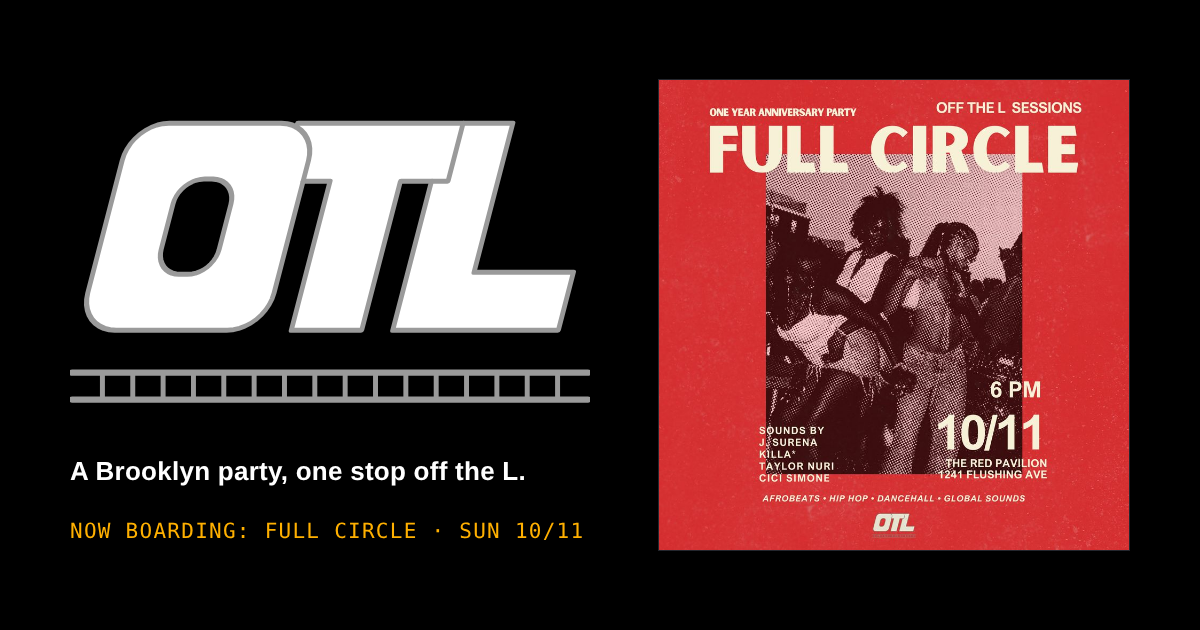
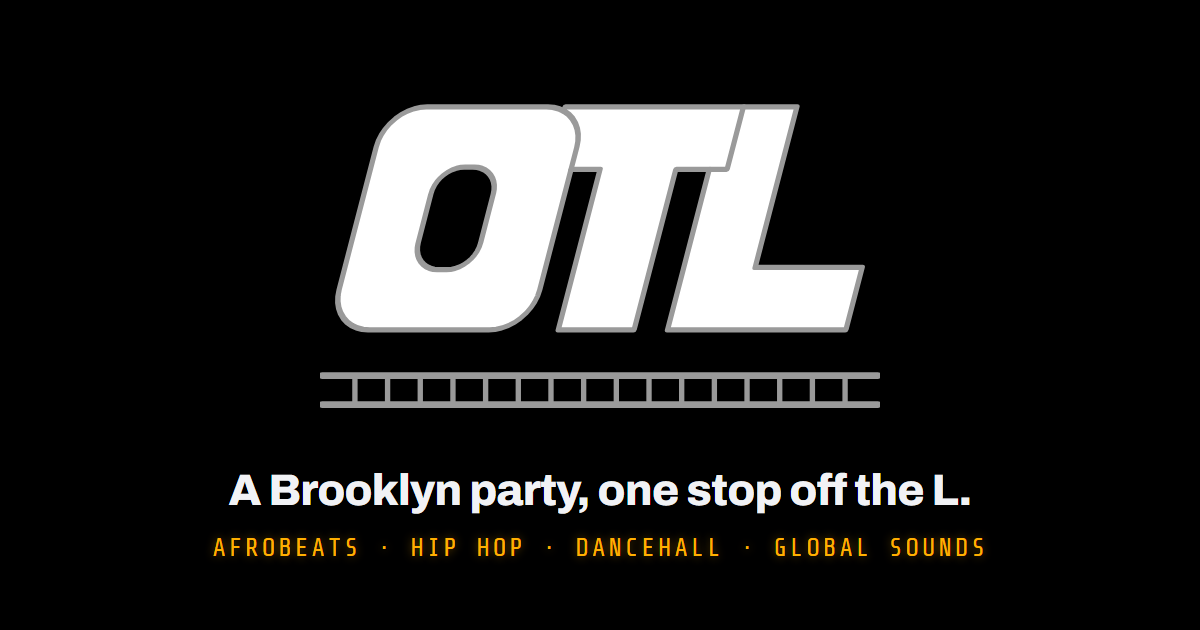
Take Full Circle off the site: the board says Next stop, TBA
Full Circle (10/11) is over. With nextStop set to null, the board shows "Next stop" with an amber TBA and the genres, and points to Instagram and the list. The ticker reads "Next stop: TBA", every RSVP button goes to Instagram, and the line map shows Full Circle as done with Next stop lit.

Full Circle stays on the line through photosComing until its photos go into Past stops. The poster files are gone, and the link preview is now an evergreen OTL card instead of the Full Circle poster. Setting nextStop to a party brings the poster board, countdown and RSVP back.

diff --git a/app/page.tsx b/app/page.tsx
@@ -4,75 +4,23 @@ import LineMap from "@/components/line-map";
 import Mark from "@/components/mark";
 import ReelEmbed from "@/components/reel-embed";
 import RsvpLink from "@/components/rsvp-link";
-import { feed, line, lineTitle, list, nextStop, pastStops, pastTitle, site } from "@/lib/content";
+import { between, feed, line, lineTitle, list, nextStop, pastStops, pastTitle, site, type Stop } from "@/lib/content";
 import PastStops from "@/components/past-stops";
-
-const eta = (() => {
-  const d = new Date(nextStop.start);
-  const day = d.toLocaleDateString("en-US", { weekday: "short", month: "numeric", day: "numeric", timeZone: "America/New_York" }).replace(",", "");
-  const time = d.toLocaleTimeString("en-US", { hour: "numeric", minute: "2-digit", timeZone: "America/New_York" }).replace(":00", "").replace(" ", "");
-  return `${day} | ${time}`.toUpperCase();
-})();
 
 const firstStop = (() => {
   const [y, m, d] = pastStops[pastStops.length - 1].date.split("-");
   return `${Number(m)}/${Number(d)}/${y.slice(2)}`;
 })();
 
-const mapsHref = `https://maps.apple.com/?q=${encodeURIComponent(`${nextStop.venue}, ${nextStop.address}`)}`;
-
 export default function Page() {
   return (
     <>
-      <a className="skip" href="#board">Skip to the next party</a>
+      <a className="skip" href="#board">Skip to the next stop</a>
       <SiteBar />
       <main id="top">
         <Hero>
           <section id="board" className="wrap board-wrap" aria-labelledby="board-title" tabIndex={-1}>
-            <div className="board">
-              <div className="board-row">
-                <span className="bullet" aria-hidden="true">L</span>
-                <h2 id="board-title" className="board-dest">OTL Presents: {nextStop.name}</h2>
-                <p className="board-eta">
-                  {eta}
-                  <small><Countdown start={nextStop.start} end={nextStop.end} /></small>
-                </p>
-              </div>
-              <p className="board-sub">{nextStop.venue} · {nextStop.address}</p>
-            </div>
-
-            <div className="stop-grid">
-              <figure className="poster">
-                <img
-                  src={nextStop.poster.src}
-                  srcSet={nextStop.poster.srcSet}
-                  sizes="(min-width: 900px) 560px, 100vw"
-                  width={nextStop.poster.width}
-                  height={nextStop.poster.height}
-                  alt={nextStop.poster.alt}
-                  decoding="async"
-                />
-              </figure>
-              <div className="stop-copy">
-                <p className="lede">{nextStop.blurb}</p>
-                <dl className="facts">
-                  <div><dt>Sounds by</dt><dd>{nextStop.sounds.join(", ")}</dd></div>
-                  <div><dt>Where</dt><dd>{nextStop.venue}<br />{nextStop.address}</dd></div>
-                  <div><dt>Doors</dt><dd>{eta.replace(" | ", ", ")}</dd></div>
-                  <div><dt>On the decks</dt><dd>{nextStop.genres.join(", ")}</dd></div>
-                </dl>
-                <div className="actions">
-                  <RsvpLink className="cta" after={site.afterParty}>
-                    <WaveIcon />
-                    Tap in to RSVP
-                  </RsvpLink>
-                  <a className="cta cta-ghost" href={mapsHref} target="_blank" rel="noopener">
-                    Get directions
-                  </a>
-                </div>
-                <p className="note">{nextStop.note}</p>
-              </div>
-            </div>
+            {nextStop ? <NextBoard stop={nextStop} /> : <BetweenBoard />}
           </section>
         </Hero>
 
@@ -107,7 +55,7 @@ export default function Page() {
             <span className="bullet" aria-hidden="true">L</span>
             <h2 id="line-title" className="sign-name">{lineTitle}</h2>
           </div>
-          <LineMap stops={line} start={nextStop.start} end={nextStop.end} />
+          <LineMap stops={line} start={nextStop?.start} end={nextStop?.end} />
         </section>
 
         <section className="wrap block list-block" aria-labelledby="list-title">
@@ -135,6 +83,95 @@ export default function Page() {
         </div>
         <p className="fine">{site.fine}</p>
       </footer>
+    </>
+  );
+}
+
+/** The departure board for an announced party. */
+function NextBoard({ stop }: { stop: Stop }) {
+  const d = new Date(stop.start);
+  const day = d.toLocaleDateString("en-US", { weekday: "short", month: "numeric", day: "numeric", timeZone: "America/New_York" }).replace(",", "");
+  const time = d.toLocaleTimeString("en-US", { hour: "numeric", minute: "2-digit", timeZone: "America/New_York" }).replace(":00", "").replace(" ", "");
+  const eta = `${day} | ${time}`.toUpperCase();
+  const mapsHref = `https://maps.apple.com/?q=${encodeURIComponent(`${stop.venue}, ${stop.address}`)}`;
+  return (
+    <>
+      <div className="board">
+        <div className="board-row">
+          <span className="bullet" aria-hidden="true">L</span>
+          <h2 id="board-title" className="board-dest">OTL Presents: {stop.name}</h2>
+          <p className="board-eta">
+            {eta}
+            <small><Countdown start={stop.start} end={stop.end} /></small>
+          </p>
+        </div>
+        <p className="board-sub">{stop.venue} · {stop.address}</p>
+      </div>
+
+      <div className="stop-grid">
+        <figure className="poster">
+          <img
+            src={stop.poster.src}
+            srcSet={stop.poster.srcSet}
+            sizes="(min-width: 900px) 560px, 100vw"
+            width={stop.poster.width}
+            height={stop.poster.height}
+            alt={stop.poster.alt}
+            decoding="async"
+          />
+        </figure>
+        <div className="stop-copy">
+          <p className="lede">{stop.blurb}</p>
+          <dl className="facts">
+            <div><dt>Sounds by</dt><dd>{stop.sounds.join(", ")}</dd></div>
+            <div><dt>Where</dt><dd>{stop.venue}<br />{stop.address}</dd></div>
+            <div><dt>Doors</dt><dd>{eta.replace(" | ", ", ")}</dd></div>
+            <div><dt>On the decks</dt><dd>{stop.genres.join(", ")}</dd></div>
+          </dl>
+          <div className="actions">
+            <RsvpLink className="cta" after={site.afterParty}>
+              <WaveIcon />
+              Tap in to RSVP
+            </RsvpLink>
+            <a className="cta cta-ghost" href={mapsHref} target="_blank" rel="noopener">
+              Get directions
+            </a>
+          </div>
+          <p className="note">{stop.note}</p>
+        </div>
+      </div>
+    </>
+  );
+}
+
+/** The board between parties: nothing announced yet, so it sends people to where the next one drops. */
+function BetweenBoard() {
+  return (
+    <>
+      <div className="board">
+        <div className="board-row">
+          <span className="bullet" aria-hidden="true">L</span>
+          <h2 id="board-title" className="board-dest">{between.title}</h2>
+          <p className="board-eta">
+            {between.eta}
+            <small>{between.etaNote}</small>
+          </p>
+        </div>
+        <p className="board-sub">{site.sounds.join(" · ")}</p>
+      </div>
+
+      <div className="stop-between">
+        <p className="lede">{between.line}</p>
+        <div className="actions">
+          <a className="cta" href={site.instagram.href} target="_blank" rel="noopener">
+            <InstagramIcon />
+            {site.afterParty}
+          </a>
+          <a className="cta cta-ghost" href={list.href} target="_blank" rel="noopener">
+            {list.cta}
+          </a>
+        </div>
+      </div>
     </>
   );
 }

diff --git a/lib/content.ts b/lib/content.ts
@@ -10,7 +10,8 @@ export const site = {
   where: "Brooklyn, NY",
   footerLine: "Come with us",
   fine: "Off The L · Brooklyn, NY",
-  shareAlt: "Off The L. Now boarding: Full Circle.",
+  shareAlt: "Off The L. A Brooklyn party, one stop off the L. Afrobeats, hip hop, dancehall and global sounds.",
+  sounds: ["Afrobeats", "Hip hop", "Dancehall", "Global sounds"],
   afterParty: "Catch the next stop",
   instagram: { handle: "@otl_nyc", href: "https://instagram.com/otl_nyc" },
   tiktok: { handle: "@otl_nyc", href: "https://www.tiktok.com/@otl_nyc" },
@@ -33,24 +34,20 @@ export type Stop = {
   poster: { src: string; srcSet: string; alt: string; width: number; height: number };
 };
 
-export const nextStop: Stop = {
-  name: "Full Circle",
-  start: "2026-10-11T18:00:00-04:00",
-  end: "2026-10-12T02:00:00-04:00",
-  venue: "The Red Pavilion",
-  address: "1241 Flushing Ave, Brooklyn",
-  sounds: ["J. Surena", "Killa*", "Taylor Nuri", "Cici Simone"],
-  genres: ["Afrobeats", "Hip hop", "Dancehall", "Global sounds"],
-  blurb: "One year of Off The L. Our anniversary party, and the reason we keep doing this.",
-  note: "Free, just RSVP.",
-  rsvp: "https://posh.vip/f/e2933?t=web",
-  poster: {
-    src: "/media/full-circle-880.webp",
-    srcSet: "/media/full-circle-560.webp 560w, /media/full-circle-880.webp 880w",
-    alt: "Full Circle poster. One year anniversary party, 6 PM 10/11, The Red Pavilion, 1241 Flushing Ave. Sounds by J. Surena, Killa*, Taylor Nuri and Cici Simone.",
-    width: 880,
-    height: 880,
-  },
+/**
+ * The next party, or null between parties. Null switches the board, ticker and every
+ * RSVP button to "Next stop, TBA" and points people to Instagram. To announce one,
+ * fill in a Stop (poster files go in public/media) and the countdown, board and line map follow.
+ */
+export const nextStop: Stop | null = null;
+
+/** What the board says between parties. */
+export const between = {
+  title: "Next stop",
+  eta: "TBA",
+  etaNote: "Announcing soon",
+  line: "The next party drops on Instagram and the list first.",
+  ticker: ["Next stop: TBA", "Brooklyn, NY", "Follow @otl_nyc for the drop"],
 };
 
 export const feed = {
@@ -168,18 +165,27 @@ export const list = {
   cta: "Join the list",
 };
 
-/** The line so far: every past stop, oldest first, then the next party and what comes after. */
+/** The line so far: every past stop, oldest first, then the next party (if announced) and what comes after. */
 export const lineTitle = "The line so far";
 const md = (iso: string) => {
   const [, m, d] = iso.split("-");
   return `${Number(m)}/${Number(d)}`;
 };
+/** Parties that happened but have no photos on the site yet. They show on the line only; move each into pastStops once its gallery picks are in. */
+export const photosComing = [{ short: "Full Circle", date: "2026-10-11" }];
+
+// Read through a cast so this file doesn't narrow nextStop to its current value.
+const upcoming = nextStop as Stop | null;
 export const line = [
-  ...[...pastStops].reverse().map((s) => ({ label: s.short, when: md(s.date) })),
-  {
-    label: nextStop.name,
-    when: new Date(nextStop.start).toLocaleDateString("en-US", { month: "numeric", day: "numeric", timeZone: "America/New_York" }),
-    isNext: true,
-  },
+  ...[...pastStops, ...photosComing]
+    .sort((a, b) => a.date.localeCompare(b.date))
+    .map((s) => ({ label: s.short, when: md(s.date) })),
+  ...(upcoming
+    ? [{
+        label: upcoming.name,
+        when: new Date(upcoming.start).toLocaleDateString("en-US", { month: "numeric", day: "numeric", timeZone: "America/New_York" }),
+        isNext: true,
+      }]
+    : []),
   { label: "Next stop", when: "Soon" },
 ];

diff --git a/components/hero.tsx b/components/hero.tsx
@@ -5,22 +5,28 @@ import { relativeLabel } from "./countdown";
 import LogoPortal from "./logo-portal";
 import RsvpLink from "./rsvp-link";
 import HalftoneField from "./halftone-field";
-import { feed, nextStop, site } from "@/lib/content";
+import { between, feed, nextStop, site, type Stop } from "@/lib/content";
+
+const SEP = "      |      ";
+
+function stopText(stop: Stop, status: string) {
+  const day = new Date(stop.start).toLocaleDateString("en-US", { weekday: "short", month: "numeric", day: "numeric", timeZone: "America/New_York" }).replace(",", "");
+  return `${status}: ${stop.name}  ·  ${day}  ·  ${stop.venue}${SEP}Sounds by ${stop.sounds.join(", ")}${SEP}${stop.genres.join("  ·  ")}${SEP}`;
+}
 
 function Ticker() {
   const [status, setStatus] = useState("Now boarding");
   useEffect(() => {
-    const tick = () => {
-      const label = relativeLabel(nextStop.start, nextStop.end);
-      setStatus(label === "Arrived" ? "Arrived" : "Now boarding");
-    };
+    if (!nextStop) return;
+    const { start, end } = nextStop;
+    const tick = () => setStatus(relativeLabel(start, end) === "Arrived" ? "Arrived" : "Now boarding");
     tick();
     const id = window.setInterval(tick, 60_000);
     return () => window.clearInterval(id);
   }, []);
-  const d = new Date(nextStop.start);
-  const day = d.toLocaleDateString("en-US", { weekday: "short", month: "numeric", day: "numeric", timeZone: "America/New_York" }).replace(",", "");
-  const text = `${status}: ${nextStop.name}  ·  ${day}  ·  ${nextStop.venue}      |      Sounds by ${nextStop.sounds.join(", ")}      |      ${nextStop.genres.join("  ·  ")}      |      `;
+  const text = nextStop
+    ? stopText(nextStop, status)
+    : `${between.ticker.join(SEP)}${SEP}${site.sounds.join("  ·  ")}${SEP}`;
   return (
     <div className="ticker" aria-hidden="true">
       <div className="ticker-track">
@@ -69,7 +75,7 @@ export default function Hero({ children }: { children: ReactNode }) {
           <div className="hero-actions">
             <RsvpLink className="cta" after={site.afterParty}>
               <WaveIcon />
-              RSVP to {nextStop.name}
+              RSVP to {nextStop?.name}
             </RsvpLink>
           </div>
           <a className="hero-hint" href="#board">

diff --git a/components/line-map.tsx b/components/line-map.tsx
@@ -5,8 +5,10 @@ import { useEffect, useState, type CSSProperties } from "react";
 type Stop = { label: string; when: string; isNext?: boolean };
 type State = "done" | "now" | "next";
 
-function states(stops: Stop[], start: string, end: string, now: number): State[] {
+function states(stops: Stop[], start: string | undefined, end: string | undefined, now: number): State[] {
   const i = stops.findIndex((s) => s.isNext);
+  // Between parties: everything has happened, and the last stop ("Next stop") is lit.
+  if (i < 0 || !end) return stops.map((_, j) => (j === stops.length - 1 ? "now" : "done"));
   const passed = now >= new Date(end).getTime();
   return stops.map((_, j) => {
     if (j < i) return "done";
@@ -15,8 +17,8 @@ function states(stops: Stop[], start: string, end: string, now: number): State[]
   });
 }
 
-/** The newsletter's line map: done stops filled, the next party lit, the future dashed. */
-export default function LineMap({ stops, start, end }: { stops: Stop[]; start: string; end: string }) {
+/** The newsletter's line map: done stops filled, the next party lit, the future dashed. Without start/end, nothing is announced. */
+export default function LineMap({ stops, start, end }: { stops: Stop[]; start?: string; end?: string }) {
   const [now, setNow] = useState<number | null>(null);
   useEffect(() => {
     setNow(Date.now());

diff --git a/components/rsvp-link.tsx b/components/rsvp-link.tsx
@@ -4,17 +4,20 @@ import { useEffect, useState, type ReactNode } from "react";
 import { relativeLabel } from "./countdown";
 import { nextStop, site } from "@/lib/content";
 
-/** RSVP until the party ends; after that it points people to the feed for the next stop. */
+/** RSVP until the party ends; after that, or between parties, it points people to the feed for the next stop. */
 export default function RsvpLink({ className, children, after }: { className: string; children: ReactNode; after: ReactNode }) {
-  const [over, setOver] = useState(false);
+  const [over, setOver] = useState(!nextStop);
   useEffect(() => {
-    const tick = () => setOver(relativeLabel(nextStop.start, nextStop.end) === "Arrived");
+    if (!nextStop) return;
+    const { start, end } = nextStop;
+    const tick = () => setOver(relativeLabel(start, end) === "Arrived");
     tick();
     const id = window.setInterval(tick, 60_000);
     return () => window.clearInterval(id);
   }, []);
+  const href = over || !nextStop ? site.instagram.href : nextStop.rsvp;
   return (
-    <a className={className} href={over ? site.instagram.href : nextStop.rsvp} target="_blank" rel="noopener">
+    <a className={className} href={href} target="_blank" rel="noopener">
       {over ? after : children}
     </a>
   );

diff --git a/app/globals.css b/app/globals.css
@@ -260,6 +260,12 @@ a { color: inherit; text-decoration-thickness: 1px; text-underline-offset: 4px; 
 .actions { display: flex; flex-wrap: wrap; gap: 12px; }
 @media (max-width: 480px) { .actions .cta { flex: 1 1 100%; } }
 .note { margin: -8px 0 0; font: 400 13px/1.4 var(--font-mono); letter-spacing: 0.06em; color: var(--color-muted); }
+/* Between parties: one line and the two ways to hear about the next one. */
+.stop-between {
+  display: flex; flex-wrap: wrap; align-items: center; justify-content: space-between;
+  gap: 22px clamp(24px, 4vw, 56px); margin-top: clamp(24px, 4vw, 48px);
+}
+.stop-between .lede { text-wrap: pretty; }
 
 /* ---------- Sections after the portal ---------- */
 .block { padding-block: clamp(56px, 9vw, 120px) 0; display: flex; flex-direction: column; gap: clamp(20px, 3vw, 32px); align-items: flex-start; }

diff --git a/README.md b/README.md
@@ -7,7 +7,7 @@ npm ci
 npm run dev
 ```
 
-- Copy, links and media: `lib/content.ts`. Update the next party there; the countdown, board and line map follow.
+- Copy, links and media: `lib/content.ts`. Set the next party in `nextStop` there, or `null` between parties; the countdown, board, ticker, RSVP buttons and line map follow. A party that happened but has no photos yet goes in `photosComing` (it shows on the line only) until it moves into `pastStops`.
 - Party photos are listed as Pixieset paths in `lib/content.ts`. `npm run build` first runs `scripts/fetch-photos.mjs`, which copies them into `public/media/stops` (1200px WebP, metadata stripped). Anything it cannot fetch stays on its Pixieset URL.
 - The OTL mark: `lib/paths.ts`.
 - The landing dive is adapted from Glyph Portal by Christian Katzmann (MIT); the notice is kept in `components/logo-portal.tsx`.
